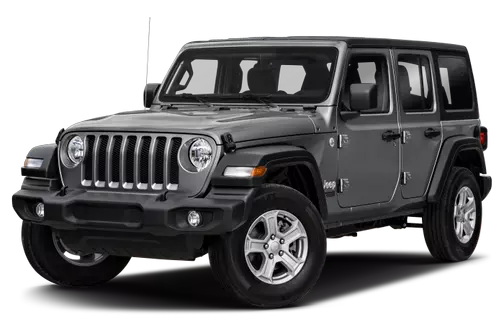
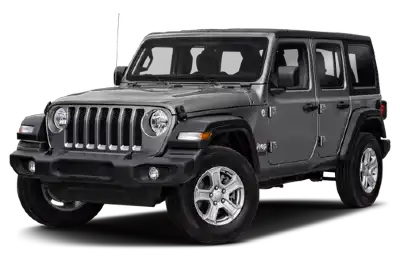
image fixes

diff --git a/scoots/rentals.html b/scoots/rentals.html
@@ -20,7 +20,6 @@
     <link rel="stylesheet" href="styles/normalize.css">
     <link rel="stylesheet" href="styles/base.css">
     <link rel="stylesheet" href="styles/medium.css">
-    <link rel="stylesheet" href="styles/larger.css">
 </head>
 
 <body>
@@ -50,19 +49,19 @@
             <hr>
             <div class="card">
                 <h3>Honda Metropolitan</h3>
-                <img src="images/Metropolitan.png" alt="Honda Metropolitan Scooter">
+                <img src="images/metropolitan.webp" alt="Honda Metropolitan Scooter">
 
                 <a href="reservations.html">Reserve Now</a>
             </div>
             <div class="card">
                 <h3>Honda Dio</h3>
-                <img src="images/dio.png" alt="Honda Dio Scooter">
+                <img src="images/dio.webp" alt="Honda Dio Scooter">
 
                 <a href="reservations.html">Reserve Now</a>
             </div>
             <div class="card">
                 <h3>Honda PCX150</h3>
-                <img src="images/pcx.png" alt="Honda PCX150 Scooter">
+                <img src="images/pcx.webp" alt="Honda PCX150 Scooter">
 
                 <a href="reservations.html">Reserve Now</a>
             </div>
@@ -72,7 +71,7 @@
             <hr>
             <div class="card">
                 <h3>Honda Pioneer</h3>
-                <img src="images/pinoeer.png" alt="Honda Pioneer 1000">
+                <img src="images/pioneer.webp" alt="Honda Pioneer 1000">
 
                 <a href="reservations.html">Reserve Now</a>
             </div>
@@ -82,7 +81,7 @@
             <hr>
             <div class="card">
                 <h3>Jeep Wrangler 2-Door</h3>
-                <img src="images/wrangler-two.jpg" alt="2-Door Jeep Wrangler">
+                <img src="images/wrangler-two.webp" alt="2-Door Jeep Wrangler">
 
                 <a href="reservations.html">Reserve Now</a>
             </div>

diff --git a/scoots/styles/base.css b/scoots/styles/base.css
@@ -81,6 +81,10 @@ footer {
     padding-top: 20px;
 }
 
+footer a {
+    color: black;
+}
+
 .closed {
     display: none;
 }
@@ -238,7 +242,7 @@ nav {
 
 .card a {
     width: 60%;
-    background-color: var(--sunset);
+    background-color: var(--darksunset);
     color: white;
     padding: 4px 0;
     text-decoration: none;
@@ -254,7 +258,7 @@ nav {
     margin: 10px auto;
     display: grid;
     grid-template-columns: repeat(2, 1fr);
-    background-image: linear-gradient(to bottom right, var(--lightblue), var(--darkblue));
+    background-image: linear-gradient(to bottom right, rgba(34, 34, 34, 1), rgba(34, 34, 34, .8));
     text-align: center;
     border: 2px double black;
     border-radius: 10px;
@@ -264,10 +268,12 @@ nav {
 #weather h2 {
     grid-column: 1/3;
     font-size: 1.5em;
+    color: #f1f1f1;
 }
 
 #weather hr {
     grid-column: 1/3;
+    width: 80%;
 }
 
 #weather img {
@@ -278,6 +284,7 @@ nav {
 #weather p {
     font-size: 1em;
     margin: 0;
+    color: #f1f1f1;
 }
 
 .tempbtn::after {

diff --git a/scoots/index.html b/scoots/index.html
@@ -20,7 +20,6 @@
     <link rel="stylesheet" href="styles/normalize.css">
     <link rel="stylesheet" href="styles/base.css">
     <link rel="stylesheet" href="styles/medium.css">
-    <link rel="stylesheet" href="styles/larger.css">
 </head>
 
 <body>
@@ -49,8 +48,8 @@
         </div>
         <div class="hero">
             <picture>
-                <source media="(min-width: 400px)" srcset="images/hero.jpg">
-                <img src="images/hero.jpg" alt="temple picture" width="960" height="633">
+                <source media="(max-width: 400px)" srcset="images/herosmall.webp">
+                <img src="images/hero.webp" alt="temple picture" width="960" height="633">
             </picture>
             <div class="call-to-action">
                 <a href="./reservations.html">Reserve Now!</a>

diff --git a/scoots/contact.html b/scoots/contact.html
@@ -20,7 +20,6 @@
     <link rel="stylesheet" href="styles/normalize.css">
     <link rel="stylesheet" href="styles/base.css">
     <link rel="stylesheet" href="styles/medium.css">
-    <link rel="stylesheet" href="styles/larger.css">
 </head>
 
 <body>

diff --git a/scoots/references.html b/scoots/references.html
@@ -20,7 +20,6 @@
     <link rel="stylesheet" href="styles/normalize.css">
     <link rel="stylesheet" href="styles/base.css">
     <link rel="stylesheet" href="styles/medium.css">
-    <link rel="stylesheet" href="styles/larger.css">
 </head>
 
 <body>

diff --git a/scoots/reservations.html b/scoots/reservations.html
@@ -20,7 +20,6 @@
     <link rel="stylesheet" href="styles/normalize.css">
     <link rel="stylesheet" href="styles/base.css">
     <link rel="stylesheet" href="styles/medium.css">
-    <link rel="stylesheet" href="styles/larger.css">
 </head>
 
 <body>

diff --git a/scoots/thanks.html b/scoots/thanks.html
@@ -20,7 +20,6 @@
     <link rel="stylesheet" href="styles/normalize.css">
     <link rel="stylesheet" href="styles/base.css">
     <link rel="stylesheet" href="styles/medium.css">
-    <link rel="stylesheet" href="styles/larger.css">
 </head>
 
 <body>
